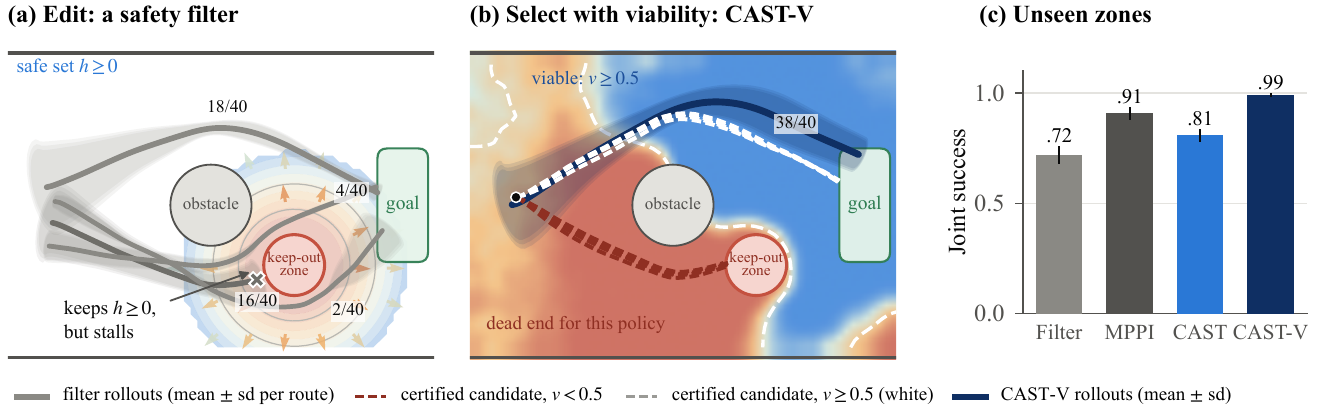
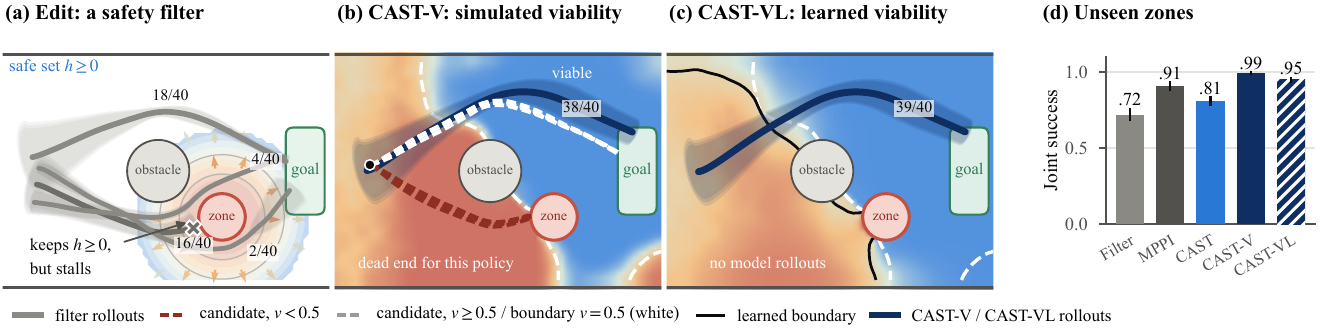
Four-panel Figure 1 with learned viability; boundary figure

diff --git a/docs/index.html b/docs/index.html
@@ -235,7 +235,7 @@ window.Quarto = {
 <div class="quarto-figure quarto-figure-center">
 <figure class="figure">
 <p><img src="figures/fig_concept.png" class="img-fluid figure-img"></p>
-<figcaption><strong>Edit or select.</strong> A keep-out zone, unseen in training, blocks one of the two routes of a frozen unicycle policy. A safety filter keeps the robot safe but stalls at the zone; selecting among the policy’s own certified samples keeps the task.</figcaption>
+<figcaption><strong>Edit or select.</strong> A keep-out zone, unseen in training, blocks one of the two routes of a frozen unicycle policy. (a) A safety filter keeps the robot safe but stalls at the zone. (b) CAST-V selects among the policy’s own certified samples using simulated viability. (c) CAST-VL does the same with viability learned from logs, without model rollouts. (d) Joint success on 500 unseen zones per policy.</figcaption>
 </figure>
 </div>
 <section id="cast-certify-then-select" class="level3">
@@ -256,6 +256,12 @@ window.Quarto = {
 <figure class="figure">
 <p><img src="figures/fig_viability.png" class="img-fluid figure-img"></p>
 <figcaption><strong>Safe set, availability and viability</strong> (unicycle, quadrotor, humanoid). States inside the safe set and with certified samples available can still be dead ends for the frozen policy; CAST-V avoids them.</figcaption>
+</figure>
+</div>
+<div class="quarto-figure quarto-figure-center">
+<figure class="figure">
+<p><img src="figures/fig_boundary.png" class="img-fluid figure-img"></p>
+<figcaption><strong>The boundary a frozen policy needs, simulated and learned.</strong> Four keep-out zones the learned network never saw. The CBF boundary (red ring) is what a filter protects; the policy’s viability boundary lies far outside it and moves with the zone. Top: by simulation (CAST-V). Bottom: learned from logs (CAST-VL), which agrees with the simulation on 72–90 % of certified chunks and reaches the goal in 37–39 of 40 rollouts.</figcaption>
 </figure>
 </div>
 </section>
